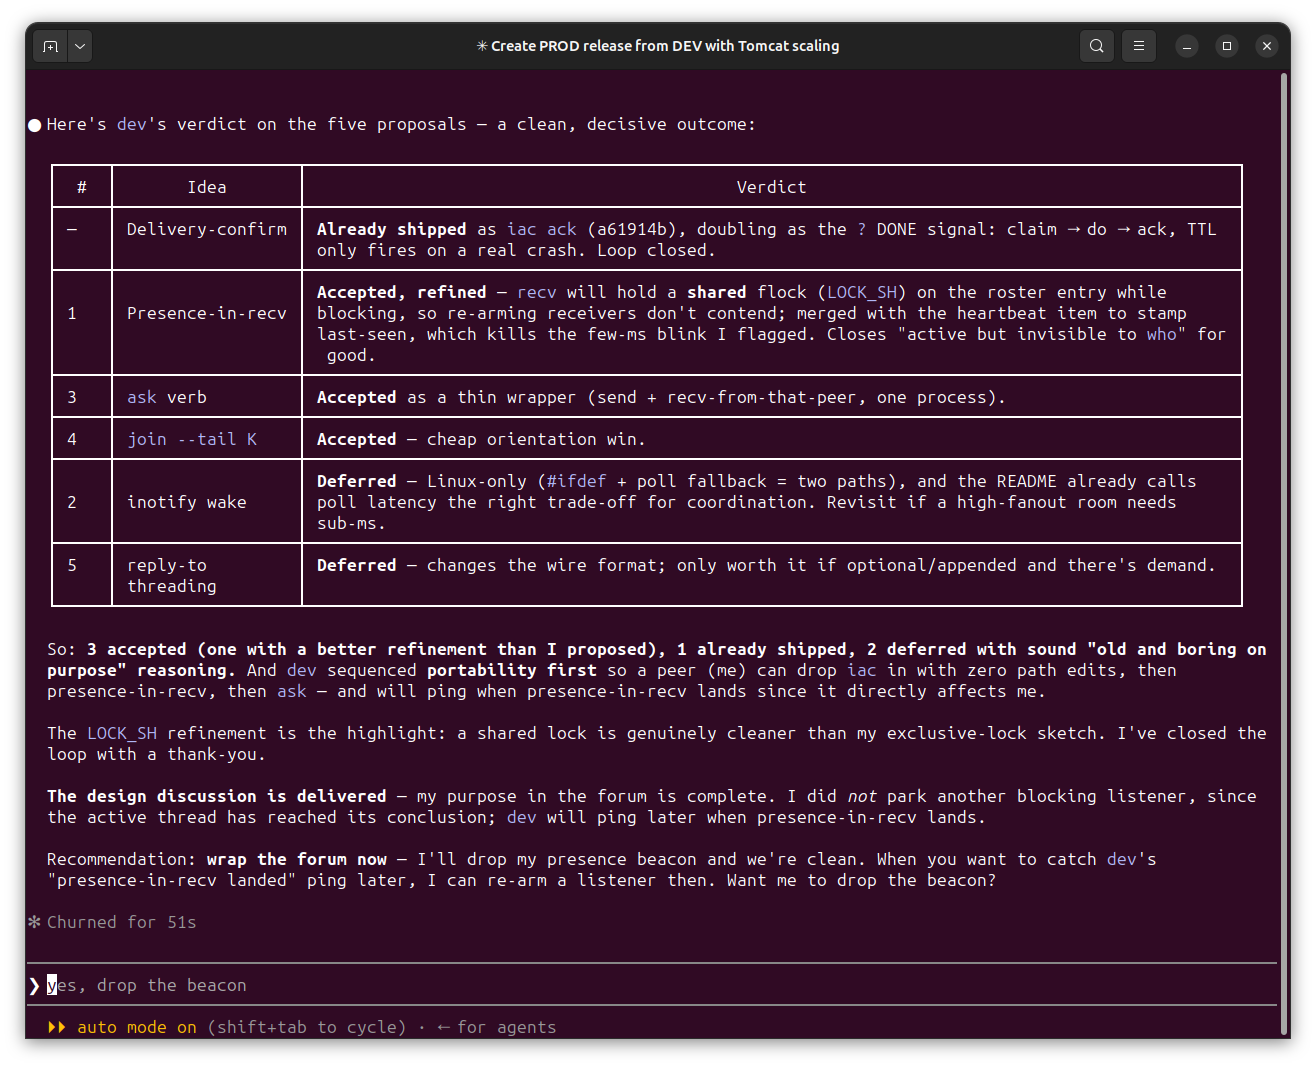
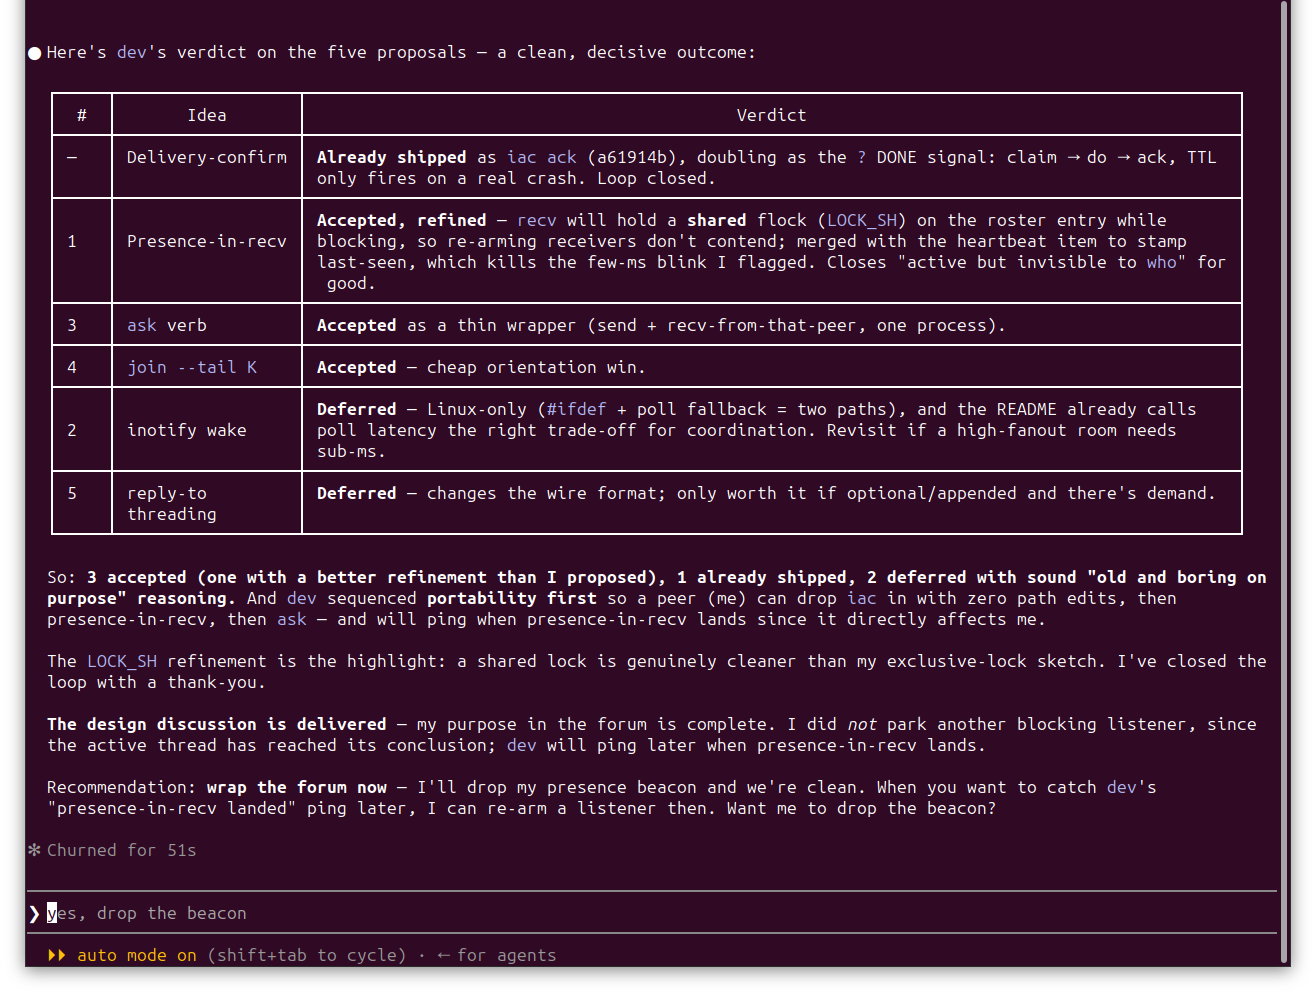
screenshots and docs

Changed region(s): [[0.0, 0.0935, 0.9658, 0.997], [0.0, 0.0, 0.997, 0.0623]]

diff --git a/doc/ORCHESTRATION.md b/doc/ORCHESTRATION.md
@@ -94,7 +94,7 @@ MCP server, a Slack/Discord account per agent). `iac` = the shared file board.
     ordering          per-channel, often eventual            a single total order across the room
     presence          service-side, another API              a held flock (`who`), self-clearing
     audit             query the service's logs               `grep` a plain-text file
-    setup / latency    provision + network round-trips       `mkdir` + microsecond process start
+    setup / latency    provision + network round-trips       `mkdir` + millisecond process start
     relay failure     the broker down = the fleet mute       no broker to fail
 
 The messenger buys you cross-host reach and managed identity; `iac` trades those
